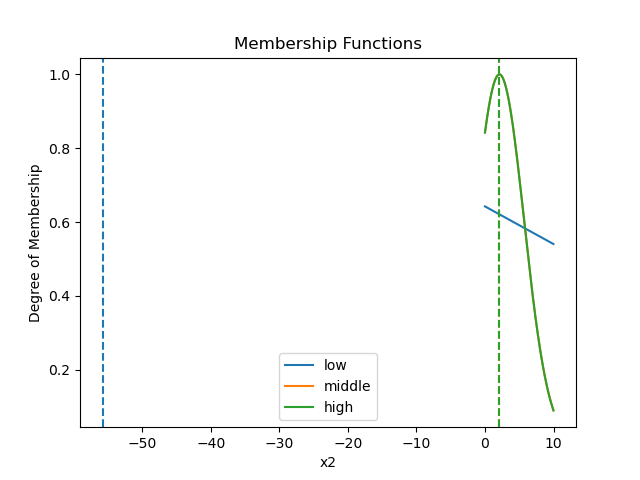
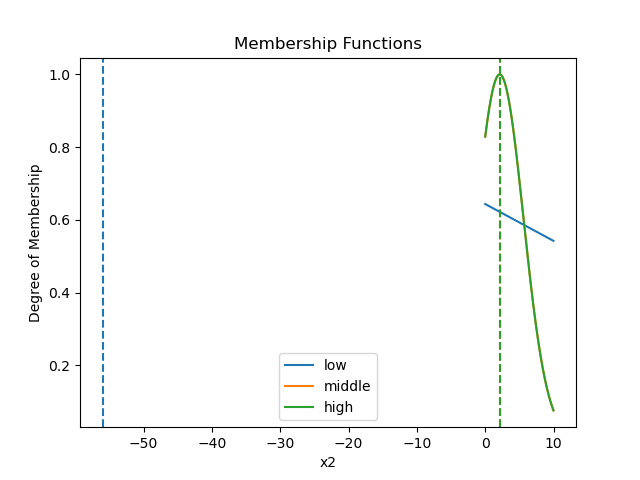
wrote additional classifier that assumes max val from output -> class
class accuracy at 0.45 ???

diff --git a/neurofuzzy_pkg/utils/Classifier.py b/neurofuzzy_pkg/utils/Classifier.py
@@ -1,0 +1,55 @@
+# basics
+import tensorflow as tf
+import pandas as pd
+
+# custom
+from neurofuzzy_pkg.fuzzyLayers import *
+from neurofuzzy_pkg.utils.math_funcs import coefficient
+import neurofuzzy_pkg.utils.MFs as MFs
+
+
+from tqdm import tqdm 
+
+import yaml 
+from yaml.loader import UnsafeLoader
+import os
+
+
+class Classifier():
+    """Outputs the class for a datasample using a trained myarc
+    """
+
+    def __init__(self, arc=None):
+        self.arc = arc
+        pass
+
+    def __call__(self, input_vec, df_name=None):
+
+        return self.get_class(self, input_vec, df_name=None)
+    
+
+    def get_class(self, input_vec, df_name=None): 
+        # propagating through network
+        outputs = self.arc(input_vec)
+        print("out", outputs)
+        outputs = np.sum(outputs, axis=1).tolist()
+        print("out after", outputs)
+
+        max_val = max(outputs)
+        idx_max = outputs.index(max_val)
+        classID = self.arc.RuleConsequentLayer.weights[idx_max]
+        return classID
+    
+
+    def get_class_accuracy(self, inputs, targets, df_name =None):
+        acc = []
+        for input_vec, target_vec in (zip(tqdm(inputs, desc='class testing'), targets)):
+            classID = self.get_class(input_vec) 
+            acc.append(self.is_class_correct(classID, target_vec))
+        return np.mean(acc)
+
+    
+    def is_class_correct(self, classID, target):
+        print("target", target)
+        print("classid", classID)
+        return classID == target

diff --git a/model_pkg/Model.py b/model_pkg/Model.py
@@ -65,7 +65,10 @@ class Model():
         self.arc.build_MFs(self.data.feature_ranges, self.data.df_name)
         print("Build done")
 
-
+    def class_acc(self):
+        self.data.load_data_for_building()
+        self.classifier.arc = self.arc
+        return self.classifier.get_class_accuracy(self.data.inputs, self.data.targets, self.data.df_name)
 
 
     # def build(self):
@@ -84,9 +87,9 @@ class Model():
         self.arc.FuzzificationLayer.load_weights(self.data.df_name)
         self.arc.RuleConsequentLayer.load_weights(self.data.df_name)
         self.data.load_data_for_training() # doubled ! hc
-       # MFs.visuMFs(self.arc.FuzzificationLayer, df_name= self.data.df_name, dir="before_training", max_vals=self.data.feature_ranges )
+        MFs.visuMFs(self.arc.FuzzificationLayer, df_name= self.data.df_name, dir="before_training", max_vals=self.data.feature_ranges )
         self.train()
-       # MFs.visuMFs(self.arc.FuzzificationLayer, df_name=self.data.df_name, dir="after_training", max_vals=self.data.feature_ranges )
+        MFs.visuMFs(self.arc.FuzzificationLayer, df_name=self.data.df_name, dir="after_training", max_vals=self.data.feature_ranges )
         #self.arc.FuzzificationLayer.save_weights(self.data.df_name)
 
 

diff --git a/main.py b/main.py
@@ -53,9 +53,11 @@ def main():
     MyModel = Model(DataPipeline(df_name, batch_size=batch_size), 
                      MyArc(), 
                      MyArcTrainer(n_epochs=n_epochs, learning_rate=learning_rate),
-                     Builder())
+                     Builder(),
+                     Classifier())
     MyModel.build_MyArc() 
     MyModel.trainMyArc()
+    print(MyModel.class_acc())
   #  MyModel.arc.RuleConsequentLayer.save_weights(df_name)
 
     #MyModel.build_MyArc_CW()

diff --git a/neurofuzzy_pkg/__init__.py b/neurofuzzy_pkg/__init__.py
@@ -4,6 +4,8 @@ from neurofuzzy_pkg.arcs.SugenoArc import SugenoArc
 from neurofuzzy_pkg.arcs.MyArc import MyArc
 from neurofuzzy_pkg.utils.MyArcTrainer import MyArcTrainer
 from neurofuzzy_pkg.utils.Builder import Builder
+from neurofuzzy_pkg.utils.Classifier import Classifier
+
 
 
 from neurofuzzy_pkg.utils.neurofuzzyTrainer import neurofuzzyTrainer
